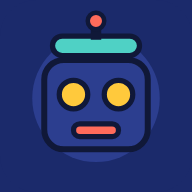
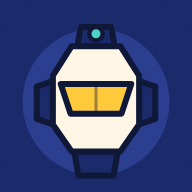
로봇을 장난감에서 각진 기체로 다시 그린다
아이가 "전체적인 디자인이 너무 유아틱하다"고 했다. 뭉툭한 라운드와 동그란
두 눈이 원인이었다. 라운드를 전부 걷어내고 직선 다각형 장갑판으로 다시 짰다.

- RobotFigure: 여덟 부품을 각진 장갑으로 다시 그린다. 밝은 바깥 장갑(paper)
  위에 어두운 속프레임(deep)을 끼우고 얇은 패널 라인을 그어, 덩어리가 아니라
  기계로 읽히게 했다. 부스터는 어깨 너머로 솟는 추진 바인더로 바꿔 실루엣을
  넓히고, 웨폰은 팔보다 먼저 그려 주먹이 손잡이를 덮어 쥔 것처럼 보이게 했다.
- 제목 화면과 보스 컷씬, 앱 아이콘도 같은 조형으로 맞췄다. 셋이 따로 놀면
  같은 로봇으로 읽히지 않는다.
- 보스는 코랄 기체에 노란 바이저와 뒤로 젖힌 뿔로 바꿨다. 처음엔 뿔을 deep 으로
  칠했더니 배경과 같은 색이라 속이 빈 철사처럼 보였다. 실루엣 바깥으로 나가는
  조각에는 deep 을 쓰지 않는다는 규칙을 CLAUDE.md 에 적어 뒀다.

기존 로봇 IP 의 이름·디자인·형태는 쓰지 않는다(절대 규칙 5). 특정 작품의
얼굴이나 안테나 형태를 흉내 내지 않고, 가로로 긴 바이저와 센서 포드로 풀었다.

검증: 테스트 474개, 화면 검사 280건(10기기 x 28화면), 오프라인 검사 13건 전부 통과.

Claude-Session: https://claude.ai/code/session_01LhhpatM45akTTqFYxsfuwL

diff --git a/src/components/RobotFigure.tsx b/src/components/RobotFigure.tsx
@@ -9,13 +9,29 @@ type RobotFigureProps = {
 }
 
 /**
- * 오리지널 로봇.
+ * 오리지널 메카닉.
  *
  * 기존 로봇 IP 의 이름·디자인·형태를 쓰지 않는다. (CLAUDE.md 절대 규칙 5)
- * 뭉툭한 상자와 두꺼운 외곽선으로 그린 우리 로봇이다.
+ * 특정 작품의 얼굴 생김새나 배색을 흉내 내지 않되, 각진 장갑판과 패널 라인으로
+ * 장난감이 아니라 기체처럼 보이게 그린다.
  *
- * 아직 없는 부품은 점선 자리로 남긴다. 빈칸이 보여야 모으고 싶어진다.
+ * 색은 CLAUDE.md 팔레트 그대로 쓰되 역할을 나눈다.
+ *   paper  바깥 장갑판 (머리·가슴·어깨·팔뚝·정강이)
+ *   panel  보조 장갑판 (허벅지·허리·부스터·총몸)
+ *   deep   관절과 속프레임 (목·위팔·무릎·발·주먹·흡기구)
+ *   energy 바이저와 추진기 / coral 가슴 코어와 총구 / mint 센서 포드
+ * 어두운 장갑끼리만 겹치면 덩어리로 보인다. 밝은 판을 크게 얹어야 실루엣이 산다.
+ * 실루엣 바깥으로 삐져나오는 조각에는 deep 을 쓰지 않는다. 배경과 같은 색이라
+ * 속이 빈 철사처럼 보인다. 바깥으로 나가는 조각은 panel 이상으로 밝게 둔다.
+ *
+ * 아직 없는 부품은 흐린 자리로 남긴다. 빈칸이 보여야 모으고 싶어진다.
  */
+
+/** 장갑 바깥선. 두께를 4로 두어 뭉툭해 보이지 않게 한다. */
+const EDGE = { stroke: '#101838', strokeWidth: 4, strokeLinejoin: 'round' } as const
+/** 장갑 위에 긋는 얇은 패널 라인. 이것 하나로 덩어리가 기계가 된다. */
+const PANEL = { stroke: '#101838', strokeWidth: 2, opacity: 0.4, fill: 'none' } as const
+
 export function RobotFigure({ parts, highlight, className }: RobotFigureProps) {
   const has = (part: RobotPart) => parts.includes(part)
 
@@ -26,52 +42,98 @@ export function RobotFigure({ parts, highlight, className }: RobotFigureProps) {
       role="img"
       aria-label={`부품 ${parts.length}개를 붙인 로봇`}
     >
-      {/* 뒤에서부터 겹쳐 그린다: 부스터 → 다리 → 팔 → 몸통 → 머리 → 웨폰 */}
-      {/* 어깨 뒤로 솟은 추진기. 몸통과 팔에 가리지 않게 위쪽이 드러나도록 놓는다. */}
+      {/* 뒤에서부터 겹쳐 그린다: 부스터 → 웨폰 → 다리 → 팔 → 몸통 → 머리 */}
+
+      {/* 등에 진 추진기. 어깨 너머로 노즐이 솟아 실루엣을 넓힌다. */}
       <Slot part="booster" has={has('booster')} highlight={highlight} label="부스터">
-        <rect x={44} y={78} width={30} height={44} rx={12} fill="#4FD1C5" stroke="#101838" strokeWidth={5} />
-        <rect x={126} y={78} width={30} height={44} rx={12} fill="#4FD1C5" stroke="#101838" strokeWidth={5} />
-        <circle cx={59} cy={90} r={7} fill="#FFC93C" stroke="#101838" strokeWidth={4} />
-        <circle cx={141} cy={90} r={7} fill="#FFC93C" stroke="#101838" strokeWidth={4} />
+        <path d="M74 112 L54 100 L34 70 L56 56 L80 88 Z" fill="#2C3E8F" {...EDGE} />
+        <path d="M126 112 L146 100 L166 70 L144 56 L120 88 Z" fill="#2C3E8F" {...EDGE} />
+        <path d="M34 70 L56 56 L47 45 L25 59 Z" fill="#1B2A6B" {...EDGE} />
+        <path d="M166 70 L144 56 L153 45 L175 59 Z" fill="#1B2A6B" {...EDGE} />
+        <path d="M25 59 L47 45 L42 38 L20 52 Z" fill="#FFC93C" {...EDGE} />
+        <path d="M175 59 L153 45 L158 38 L180 52 Z" fill="#FFC93C" {...EDGE} />
+        <path d="M66 102 L46 74" {...PANEL} />
+        <path d="M134 102 L154 74" {...PANEL} />
       </Slot>
 
+      {/* 메인 웨폰. 팔보다 먼저 그려야 주먹이 손잡이를 덮어 쥔 것처럼 보인다. */}
+      <Slot part="weapon" has={has('weapon')} highlight={highlight} label="메인 웨폰">
+        <path d="M146 186 L186 186 L186 200 L146 200 Z" fill="#2C3E8F" {...EDGE} />
+        <path d="M156 178 L178 178 L178 186 L156 186 Z" fill="#1B2A6B" {...EDGE} />
+        <path d="M146 196 L160 196 L158 214 L146 214 Z" fill="#1B2A6B" {...EDGE} />
+        <path d="M186 188 L198 188 L198 198 L186 198 Z" fill="#FF6B5B" {...EDGE} />
+        <path d="M164 193 L180 193" {...PANEL} />
+      </Slot>
+
+      {/* 다리. 허벅지·무릎·정강이·발로 나눠 마디가 보이게 한다. */}
       <Slot part="left_leg" has={has('left_leg')} highlight={highlight} label="왼다리">
-        <rect x={70} y={176} width={26} height={54} rx={9} fill="#2C3E8F" stroke="#101838" strokeWidth={5} />
-        <rect x={64} y={220} width={38} height={16} rx={7} fill="#4FD1C5" stroke="#101838" strokeWidth={5} />
+        <path d="M74 176 L96 176 L96 202 L76 204 Z" fill="#2C3E8F" {...EDGE} />
+        <path d="M75 204 L96 202 L98 214 L74 216 Z" fill="#1B2A6B" {...EDGE} />
+        <path d="M74 216 L98 214 L100 240 L72 240 Z" fill="#FFF6E5" {...EDGE} />
+        <path d="M66 240 L100 240 L100 250 L62 250 Z" fill="#1B2A6B" {...EDGE} />
+        <path d="M78 224 L96 223" {...PANEL} />
       </Slot>
 
       <Slot part="right_leg" has={has('right_leg')} highlight={highlight} label="오른다리">
-        <rect x={104} y={176} width={26} height={54} rx={9} fill="#2C3E8F" stroke="#101838" strokeWidth={5} />
-        <rect x={98} y={220} width={38} height={16} rx={7} fill="#4FD1C5" stroke="#101838" strokeWidth={5} />
+        <path d="M126 176 L104 176 L104 202 L124 204 Z" fill="#2C3E8F" {...EDGE} />
+        <path d="M125 204 L104 202 L102 214 L126 216 Z" fill="#1B2A6B" {...EDGE} />
+        <path d="M126 216 L102 214 L100 240 L128 240 Z" fill="#FFF6E5" {...EDGE} />
+        <path d="M134 240 L100 240 L100 250 L138 250 Z" fill="#1B2A6B" {...EDGE} />
+        <path d="M122 224 L104 223" {...PANEL} />
       </Slot>
 
+      {/* 팔. 어깨 장갑을 크게 얹어 실루엣을 넓힌다. */}
       <Slot part="left_arm" has={has('left_arm')} highlight={highlight} label="왼팔">
-        <rect x={34} y={112} width={24} height={56} rx={10} fill="#2C3E8F" stroke="#101838" strokeWidth={5} />
-        <circle cx={46} cy={174} r={12} fill="#4FD1C5" stroke="#101838" strokeWidth={5} />
+        <path d="M24 106 L54 96 L64 110 L62 136 L26 138 Z" fill="#FFF6E5" {...EDGE} />
+        <path d="M38 138 L60 136 L60 160 L38 162 Z" fill="#1B2A6B" {...EDGE} />
+        <path d="M36 162 L60 160 L62 190 L34 190 Z" fill="#FFF6E5" {...EDGE} />
+        <path d="M38 190 L60 190 L58 204 L40 204 Z" fill="#1B2A6B" {...EDGE} />
+        <path d="M31 114 L56 105" {...PANEL} />
+        <path d="M40 170 L56 169 M40 178 L56 177" {...PANEL} />
       </Slot>
 
       <Slot part="right_arm" has={has('right_arm')} highlight={highlight} label="오른팔">
-        <rect x={142} y={112} width={24} height={56} rx={10} fill="#2C3E8F" stroke="#101838" strokeWidth={5} />
-        <circle cx={154} cy={174} r={12} fill="#4FD1C5" stroke="#101838" strokeWidth={5} />
+        <path d="M176 106 L146 96 L136 110 L138 136 L174 138 Z" fill="#FFF6E5" {...EDGE} />
+        <path d="M162 138 L140 136 L140 160 L162 162 Z" fill="#1B2A6B" {...EDGE} />
+        <path d="M164 162 L140 160 L138 190 L166 190 Z" fill="#FFF6E5" {...EDGE} />
+        <path d="M162 190 L140 190 L142 204 L160 204 Z" fill="#1B2A6B" {...EDGE} />
+        <path d="M169 114 L144 105" {...PANEL} />
+        <path d="M160 170 L144 169 M160 178 L144 177" {...PANEL} />
       </Slot>
 
+      {/* 몸통. 가슴 흡기구와 콕핏 이음선을 넣는다. */}
       <Slot part="body" has={has('body')} highlight={highlight} label="몸통">
-        <rect x={62} y={102} width={76} height={76} rx={16} fill="#2C3E8F" stroke="#101838" strokeWidth={5} />
-        <circle cx={100} cy={132} r={14} fill="#FFC93C" stroke="#101838" strokeWidth={5} />
-        <rect x={80} y={154} width={40} height={10} rx={5} fill="#101838" opacity={0.3} />
+        <path
+          d="M66 110 L80 100 L120 100 L134 110 L134 142 L124 152 L76 152 L66 142 Z"
+          fill="#FFF6E5"
+          {...EDGE}
+        />
+        <path d="M80 112 L96 108 L94 128 L78 130 Z" fill="#1B2A6B" {...EDGE} />
+        <path d="M120 112 L104 108 L106 128 L122 130 Z" fill="#1B2A6B" {...EDGE} />
+        <path d="M92 134 L108 134 L106 148 L94 148 Z" fill="#FF6B5B" {...EDGE} />
+        <path d="M84 152 L116 152 L118 168 L82 168 Z" fill="#1B2A6B" {...EDGE} />
+        <path d="M94 166 L106 166 L104 186 L96 186 Z" fill="#1B2A6B" {...EDGE} />
+        <path d="M76 168 L98 168 L96 184 L80 184 Z" fill="#FFF6E5" {...EDGE} />
+        <path d="M124 168 L102 168 L104 184 L120 184 Z" fill="#FFF6E5" {...EDGE} />
+        <path d="M100 102 L100 132 M76 132 L92 132 M124 132 L108 132" {...PANEL} />
+        <path d="M83 117 L93 115 M83 123 L93 121" {...PANEL} />
+        <path d="M117 117 L107 115 M117 123 L107 121" {...PANEL} />
       </Slot>
 
+      {/* 머리. 가로로 긴 바이저와 턱 가드. 안테나 대신 센서 포드를 얹는다. */}
       <Slot part="head" has={has('head')} highlight={highlight} label="헤드 유닛">
-        <rect x={72} y={44} width={56} height={52} rx={14} fill="#2C3E8F" stroke="#101838" strokeWidth={5} />
-        <rect x={82} y={60} width={36} height={18} rx={8} fill="#FFC93C" stroke="#101838" strokeWidth={4} />
-        <rect x={96} y={28} width={8} height={18} fill="#101838" />
-        <circle cx={100} cy={26} r={6} fill="#FF6B5B" stroke="#101838" strokeWidth={4} />
-      </Slot>
-
-      {/* 오른손이 쥐는 자리에 맞춰 놓는다. 팔 위에 떠 있으면 들고 있는 것으로 보이지 않는다. */}
-      <Slot part="weapon" has={has('weapon')} highlight={highlight} label="메인 웨폰">
-        <rect x={156} y={164} width={38} height={20} rx={7} fill="#FF6B5B" stroke="#101838" strokeWidth={5} />
-        <rect x={186} y={168} width={11} height={12} rx={4} fill="#FFC93C" stroke="#101838" strokeWidth={4} />
+        <path d="M88 86 L112 86 L110 100 L90 100 Z" fill="#1B2A6B" {...EDGE} />
+        <path d="M70 58 L78 56 L78 72 L70 70 Z" fill="#2C3E8F" {...EDGE} />
+        <path d="M130 58 L122 56 L122 72 L130 70 Z" fill="#2C3E8F" {...EDGE} />
+        <path d="M92 30 L108 30 L110 40 L90 40 Z" fill="#2C3E8F" {...EDGE} />
+        <path
+          d="M78 52 L86 40 L114 40 L122 52 L122 74 L114 86 L86 86 L78 74 Z"
+          fill="#FFF6E5"
+          {...EDGE}
+        />
+        <path d="M82 56 L118 56 L114 70 L86 70 Z" fill="#FFC93C" {...EDGE} />
+        <circle cx={100} cy={32} r={4} fill="#4FD1C5" stroke="#101838" strokeWidth={3} />
+        <path d="M100 57 L100 69" {...PANEL} />
       </Slot>
     </svg>
   )
@@ -90,13 +152,13 @@ function Slot({
 }: {
   part: RobotPart
   has: boolean
-  highlight: RobotPart | undefined
+  highlight?: RobotPart | undefined
   label: string
   children: React.ReactNode
 }) {
   if (!has) {
     return (
-      <g opacity={0.18} aria-label={`${label} 자리`}>
+      <g opacity={0.16} aria-label={`${label} 자리`}>
         {children}
       </g>
     )

diff --git a/src/screens/TitleScreen.tsx b/src/screens/TitleScreen.tsx
@@ -27,18 +27,24 @@ export function TitleScreen({ onStart }: TitleScreenProps) {
   )
 }
 
-/** 오리지널 로봇 얼굴. 기존 로봇 IP 의 이름·디자인을 쓰지 않는다. (CLAUDE.md 절대 규칙 5) */
+/**
+ * 오리지널 메카닉의 헤드 유닛.
+ *
+ * 기존 로봇 IP 의 이름·디자인·형태를 쓰지 않는다. (CLAUDE.md 절대 규칙 5)
+ * 격납고에 서 있는 기체(RobotFigure)와 같은 조형이어야 같은 로봇으로 읽힌다.
+ */
 function RobotMark() {
+  const edge = { stroke: '#101838', strokeWidth: 4, strokeLinejoin: 'round' } as const
   return (
     <svg viewBox="0 0 120 120" className="w-40" role="img" aria-label="로봇 얼굴">
-      <rect x={22} y={12} width={76} height={16} rx={8} fill="#4FD1C5" stroke="#101838" strokeWidth={4} />
-      <rect x={56} y={4} width={8} height={12} fill="#101838" />
-      <rect x={16} y={30} width={88} height={72} rx={16} fill="#2C3E8F" stroke="#101838" strokeWidth={4} />
-      <circle cx={42} cy={58} r={11} fill="#FFC93C" stroke="#101838" strokeWidth={4} />
-      <circle cx={78} cy={58} r={11} fill="#FFC93C" stroke="#101838" strokeWidth={4} />
-      <rect x={40} y={80} width={40} height={12} rx={6} fill="#FF6B5B" stroke="#101838" strokeWidth={4} />
-      <rect x={4} y={48} width={12} height={28} rx={5} fill="#4FD1C5" stroke="#101838" strokeWidth={4} />
-      <rect x={104} y={48} width={12} height={28} rx={5} fill="#4FD1C5" stroke="#101838" strokeWidth={4} />
+      <path d="M44 96 L76 96 L73 114 L47 114 Z" fill="#2C3E8F" {...edge} />
+      <path d="M16 48 L28 44 L28 76 L16 72 Z" fill="#2C3E8F" {...edge} />
+      <path d="M104 48 L92 44 L92 76 L104 72 Z" fill="#2C3E8F" {...edge} />
+      <path d="M49 4 L71 4 L74 18 L46 18 Z" fill="#2C3E8F" {...edge} />
+      <path d="M28 40 L42 18 L78 18 L92 40 L92 76 L78 96 L42 96 L28 76 Z" fill="#FFF6E5" {...edge} />
+      <path d="M34 46 L86 46 L79 68 L41 68 Z" fill="#FFC93C" {...edge} />
+      <path d="M60 47 L60 67" stroke="#101838" strokeWidth={2} opacity={0.4} />
+      <circle cx={60} cy={9} r={5} fill="#4FD1C5" stroke="#101838" strokeWidth={3} />
     </svg>
   )
 }

diff --git a/src/screens/BossIntroScreen.tsx b/src/screens/BossIntroScreen.tsx
@@ -73,20 +73,17 @@ function WarningStripe() {
 
 /** 보스를 나타내는 그림. 오리지널이며 특정 IP 를 따르지 않는다. */
 function BossMark() {
+  const edge = { stroke: '#101838', strokeWidth: 5, strokeLinejoin: 'round' } as const
   return (
     <svg viewBox="0 0 120 100" className="w-48 animate-pop-in" role="img" aria-label="보스">
-      <ellipse cx={60} cy={86} rx={40} ry={7} fill="#101838" opacity={0.35} />
-      <path
-        d="M20 52c0-18 18-30 40-30s40 12 40 30v6H20z"
-        fill="#2C3E8F"
-        stroke="#101838"
-        strokeWidth={5}
-        strokeLinejoin="round"
-      />
-      <rect x={14} y={56} width={92} height={20} rx={9} fill="#FF6B5B" stroke="#101838" strokeWidth={5} />
-      <circle cx={40} cy={45} r={9} fill="#FFC93C" stroke="#101838" strokeWidth={4} />
-      <circle cx={80} cy={45} r={9} fill="#FFC93C" stroke="#101838" strokeWidth={4} />
-      <rect x={54} y={8} width={12} height={16} rx={4} fill="#4FD1C5" stroke="#101838" strokeWidth={4} />
+      <ellipse cx={60} cy={94} rx={40} ry={6} fill="#101838" opacity={0.35} />
+      <path d="M28 28 L28 58 L2 12 Z" fill="#FF6B5B" {...edge} />
+      <path d="M92 28 L92 58 L118 12 Z" fill="#FF6B5B" {...edge} />
+      <path d="M54 6 L66 6 L70 22 L50 22 Z" fill="#2C3E8F" {...edge} />
+      <path d="M38 80 L82 80 L76 92 L44 92 Z" fill="#2C3E8F" {...edge} />
+      <path d="M22 44 L34 20 L86 20 L98 44 L98 64 L86 80 L34 80 L22 64 Z" fill="#FF6B5B" {...edge} />
+      <path d="M28 46 L92 46 L84 62 L36 62 Z" fill="#FFC93C" {...edge} />
+      <path d="M60 47 L60 61" stroke="#101838" strokeWidth={2} opacity={0.4} />
     </svg>
   )
 }

diff --git a/CLAUDE.md b/CLAUDE.md
@@ -111,8 +111,13 @@ Lv1~Lv5 와 보스는 시간을 재지 않는다. 카운트다운, 남은 시간
 
 ## 비주얼 방향
 
-장난감 스티커 느낌. 두꺼운 외곽선 + 채도 높은 색 + 뭉툭한 라운드.
+UI(버튼·카드·숫자패드)는 장난감 스티커 느낌. 두꺼운 외곽선 + 채도 높은 색 + 뭉툭한 라운드.
 얇은 선, 파스텔, 반투명 유리 효과, 그라데이션 워시는 쓰지 않는다.
+
+**로봇과 보스만 예외다.** 여덟 살 아이가 "유아틱하다"고 느낀 곳이 여기라서,
+뭉툭한 장난감이 아니라 각진 기체로 그린다. 라운드를 쓰지 않고 직선 다각형으로만
+장갑판을 짜고, 그 위에 얇은 패널 라인(outline 2px, opacity 0.4)을 긋는다.
+외곽선 규칙은 그대로 지키되 두께는 4px 로 올린다.
 
 ```
 --deep     #1B2A6B   우주 배경
@@ -129,6 +134,20 @@ Lv1~Lv5 와 보스는 시간을 재지 않는다. 카운트다운, 남은 시간
 - 제목: `Jua` 또는 `BM Dohyeon` / 본문·숫자: `Pretendard`
 - 숫자는 `font-variant-numeric: tabular-nums` 로 자릿수 흔들림 방지
 - 화려한 연출은 **부품 획득 순간 한 곳**에만 몰아준다. 나머지 화면은 조용하게
+
+로봇 장갑의 색 역할 (RobotFigure / RobotMark / BossMark 공통):
+
+| 역할 | 색 | 쓰는 곳 |
+| --- | --- | --- |
+| 바깥 장갑 | `paper` | 머리·가슴·어깨·팔뚝·정강이 |
+| 보조 장갑 | `panel` | 허벅지·허리 스커트·부스터·총몸 |
+| 속프레임·관절 | `deep` | 목·위팔·무릎·발·주먹·흡기구 |
+| 발광부 | `energy` | 바이저·추진기 노즐 |
+| 코어 | `coral` | 가슴 코어·총구, 보스 기체 전체 |
+| 센서 | `mint` | 머리 위 센서 포드 |
+
+`deep` 은 배경색과 같다. 실루엣 **바깥으로** 삐져나오는 조각에 쓰면 속이 빈
+철사처럼 보이니, 바깥으로 나가는 조각은 `panel` 이상으로 밝게 둔다.
 
 ---
 
